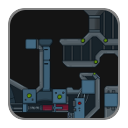
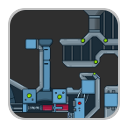
Tint level select buttons

diff --git a/BlobGame/src/org/siggd/view/MenuView.java b/BlobGame/src/org/siggd/view/MenuView.java
@@ -96,7 +96,7 @@ public class MenuView {
 
 		// Generate a 1x1 white texture and store it in the skin named "white".
 		Pixmap pixmap = new Pixmap(1, 1, Format.RGBA8888);
-		pixmap.setColor(0, 0, 0, .5f);
+		pixmap.setColor(0, 0, 0, .65f);
 		pixmap.fill();
 		mSkin.add("black", new Texture(pixmap));
 
@@ -217,6 +217,7 @@ public class MenuView {
 				"data/gfx/buttonDisabled.png", "level8"));
 
 		SiggdImageButton button = mLevel1.get("level1");
+		button.getButton().setColor(0f, 0f, 1f, .65f);
 		mLevelsTable.add(button.getButton()).space(mVerticalSpacing, mHorizontalSpacing,
 				mVerticalSpacing, mHorizontalSpacing);
 		button.getButton().addListener(mStartLevel);
@@ -224,35 +225,41 @@ public class MenuView {
 		mLevelsTable.invalidate();
 
 		button = mLevel1.get("level7");
+		button.getButton().setColor(0f, 0f, 1f, .65f);
 		mLevelsTable.add(button.getButton()).space(mVerticalSpacing, mHorizontalSpacing,
 				mVerticalSpacing, mHorizontalSpacing);
 		button.getButton().addListener(mStartLevel);
 		button.getButton().addListener(mClickListener);
 
 		button = mLevel1.get("level5");
+		button.getButton().setColor(0f, 0f, 1f, .65f);
 		mLevelsTable.add(button.getButton()).space(mVerticalSpacing, mHorizontalSpacing,
 				mVerticalSpacing, mHorizontalSpacing);
 		button.getButton().addListener(mStartLevel);
 		button.getButton().addListener(mClickListener);
 
 		button = mLevel1.get("level3");
+		button.getButton().setColor(0f, 0f, 1f, .65f);
 		mLevelsTable.add(button.getButton()).space(mVerticalSpacing, mHorizontalSpacing,
 				mVerticalSpacing, mHorizontalSpacing);
 		button.getButton().addListener(mStartLevel);
 		button.getButton().addListener(mClickListener);
 
 		button = mLevel1.get("level4");
+		button.getButton().setColor(0f, 0f, 1f, .65f);
 		mLevelsTable.add(button.getButton()).space(mVerticalSpacing, mHorizontalSpacing,
 				mVerticalSpacing, mHorizontalSpacing);
 		button.getButton().addListener(mStartLevel);
 
 		button = mLevel1.get("level2");
+		button.getButton().setColor(0f, 0f, 1f, .65f);
 		mLevelsTable.add(button.getButton()).space(mVerticalSpacing, mHorizontalSpacing,
 				mVerticalSpacing, mHorizontalSpacing);
 		button.getButton().addListener(mStartLevel);
 		button.getButton().addListener(mClickListener);
 
 		button = mLevel1.get("level8");
+		button.getButton().setColor(0f, 0f, 1f, .65f);
 		mLevelsTable.add(button.getButton()).space(mVerticalSpacing, mHorizontalSpacing,
 				mVerticalSpacing, mHorizontalSpacing);
 		button.getButton().addListener(mStartLevel);
@@ -286,42 +293,49 @@ public class MenuView {
 				"data/gfx/buttonDisabled.png", "level8_med"));
 
 		button = mLevel1.get("level1_med");
+		button.getButton().setColor(0f, 1f, 0f, .65f);
 		mLevelsTable.add(button.getButton()).space(mVerticalSpacing, mHorizontalSpacing,
 				mVerticalSpacing, mHorizontalSpacing);
 		button.getButton().addListener(mStartLevel);
 		button.getButton().addListener(mClickListener);
 
 		button = mLevel1.get("level7_med");
+		button.getButton().setColor(0f, 1f, 0f, .65f);
 		mLevelsTable.add(button.getButton()).space(mVerticalSpacing, mHorizontalSpacing,
 				mVerticalSpacing, mHorizontalSpacing);
 		button.getButton().addListener(mStartLevel);
 		button.getButton().addListener(mClickListener);
 
 		button = mLevel1.get("level5_med");
+		button.getButton().setColor(0f, 1f, 0f, .65f);
 		mLevelsTable.add(button.getButton()).space(mVerticalSpacing, mHorizontalSpacing,
 				mVerticalSpacing, mHorizontalSpacing);
 		button.getButton().addListener(mStartLevel);
 		button.getButton().addListener(mClickListener);
 
 		button = mLevel1.get("level3_med");
+		button.getButton().setColor(0f, 1f, 0f, .65f);
 		mLevelsTable.add(button.getButton()).space(mVerticalSpacing, mHorizontalSpacing,
 				mVerticalSpacing, mHorizontalSpacing);
 		button.getButton().addListener(mStartLevel);
 		button.getButton().addListener(mClickListener);
 
 		button = mLevel1.get("level4_med");
+		button.getButton().setColor(0f, 1f, 0f, .65f);
 		mLevelsTable.add(button.getButton()).space(mVerticalSpacing, mHorizontalSpacing,
 				mVerticalSpacing, mHorizontalSpacing);
 		button.getButton().addListener(mStartLevel);
 		button.getButton().addListener(mClickListener);
 
 		button = mLevel1.get("level2_med");
+		button.getButton().setColor(0f, 1f, 0f, .65f);
 		mLevelsTable.add(button.getButton()).space(mVerticalSpacing, mHorizontalSpacing,
 				mVerticalSpacing, mHorizontalSpacing);
 		button.getButton().addListener(mStartLevel);
 		button.getButton().addListener(mClickListener);
 
 		button = mLevel1.get("level8_med");
+		button.getButton().setColor(0f, 1f, 0f, .65f);
 		mLevelsTable.add(button.getButton()).space(mVerticalSpacing, mHorizontalSpacing,
 				mVerticalSpacing, mHorizontalSpacing);
 		button.getButton().addListener(mStartLevel);
@@ -350,41 +364,48 @@ public class MenuView {
 				"data/gfx/buttonDisabled.png", "level8_hard"));
 
 		button = mLevel1.get("level1_hard");
+		button.getButton().setColor(1f, 0f, 0f, .65f);
 		mLevelsTable.add(button.getButton()).space(mVerticalSpacing, mHorizontalSpacing,
 				mVerticalSpacing, mHorizontalSpacing);
 		button.getButton().addListener(mStartLevel);
 		button.getButton().addListener(mClickListener);
 
 		button = mLevel1.get("level7_hard");
+		button.getButton().setColor(1f, 0f, 0f, .65f);
 		mLevelsTable.add(button.getButton()).space(mVerticalSpacing, mHorizontalSpacing,
 				mVerticalSpacing, mHorizontalSpacing);
 		button.getButton().addListener(mStartLevel);
 		button.getButton().addListener(mClickListener);
 
 		button = mLevel1.get("level5_hard");
+		button.getButton().setColor(1f, 0f, 0f, .65f);
 		mLevelsTable.add(button.getButton()).space(mVerticalSpacing, mHorizontalSpacing,
 				mVerticalSpacing, mHorizontalSpacing);
 		button.getButton().addListener(mStartLevel);
 		button.getButton().addListener(mClickListener);
 
 		button = mLevel1.get("level3_hard");
+		button.getButton().setColor(1f, 0f, 0f, .65f);
 		mLevelsTable.add(button.getButton()).space(mVerticalSpacing, mHorizontalSpacing,
 				mVerticalSpacing, mHorizontalSpacing);
 		button.getButton().addListener(mStartLevel);
 		button.getButton().addListener(mClickListener);
 		button = mLevel1.get("level4_hard");
+		button.getButton().setColor(1f, 0f, 0f, .65f);
 		mLevelsTable.add(button.getButton()).space(mVerticalSpacing, mHorizontalSpacing,
 				mVerticalSpacing, mHorizontalSpacing);
 		button.getButton().addListener(mStartLevel);
 		button.getButton().addListener(mClickListener);
 
 		button = mLevel1.get("level2_hard");
+		button.getButton().setColor(1f, 0f, 0f, .65f);
 		mLevelsTable.add(button.getButton()).space(mVerticalSpacing, mHorizontalSpacing,
 				mVerticalSpacing, mHorizontalSpacing);
 		button.getButton().addListener(mStartLevel);
 		button.getButton().addListener(mClickListener);
 
 		button = mLevel1.get("level8_hard");
+		button.getButton().setColor(1f, 0f, 0f, .65f);
 		mLevelsTable.add(button.getButton()).space(mVerticalSpacing, mHorizontalSpacing,
 				mVerticalSpacing, mHorizontalSpacing);
 		button.getButton().addListener(mStartLevel);
